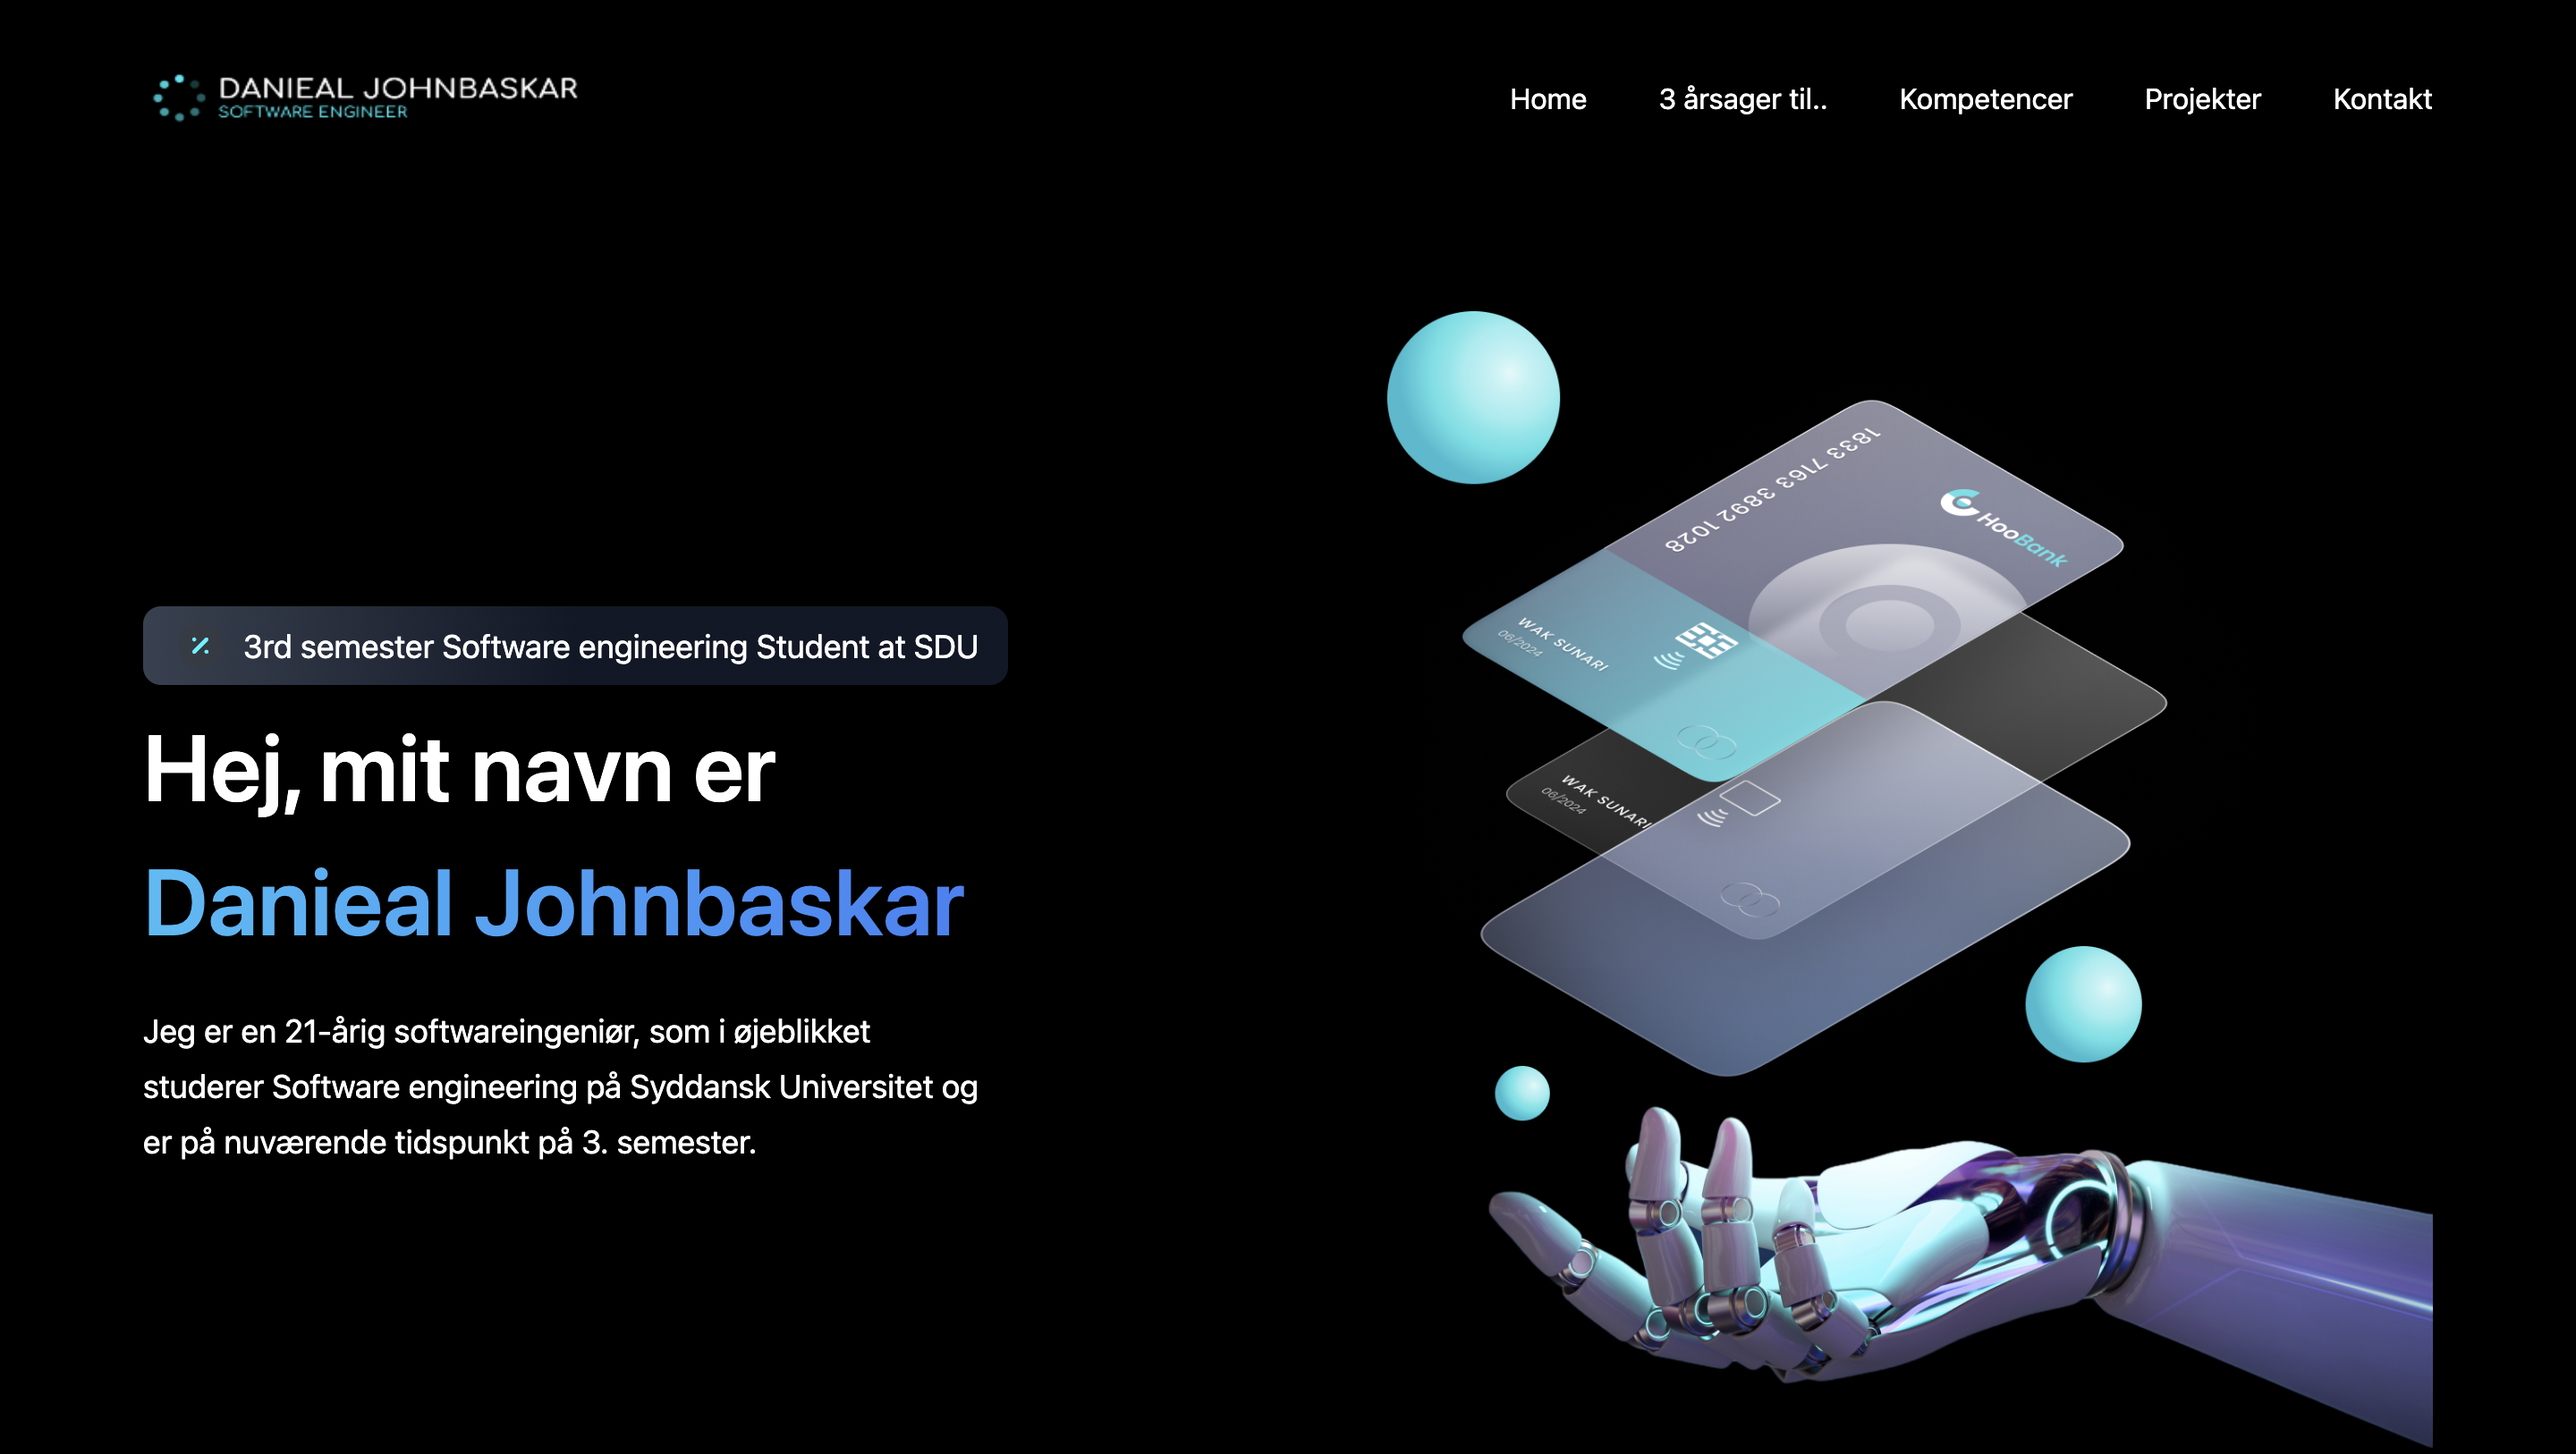
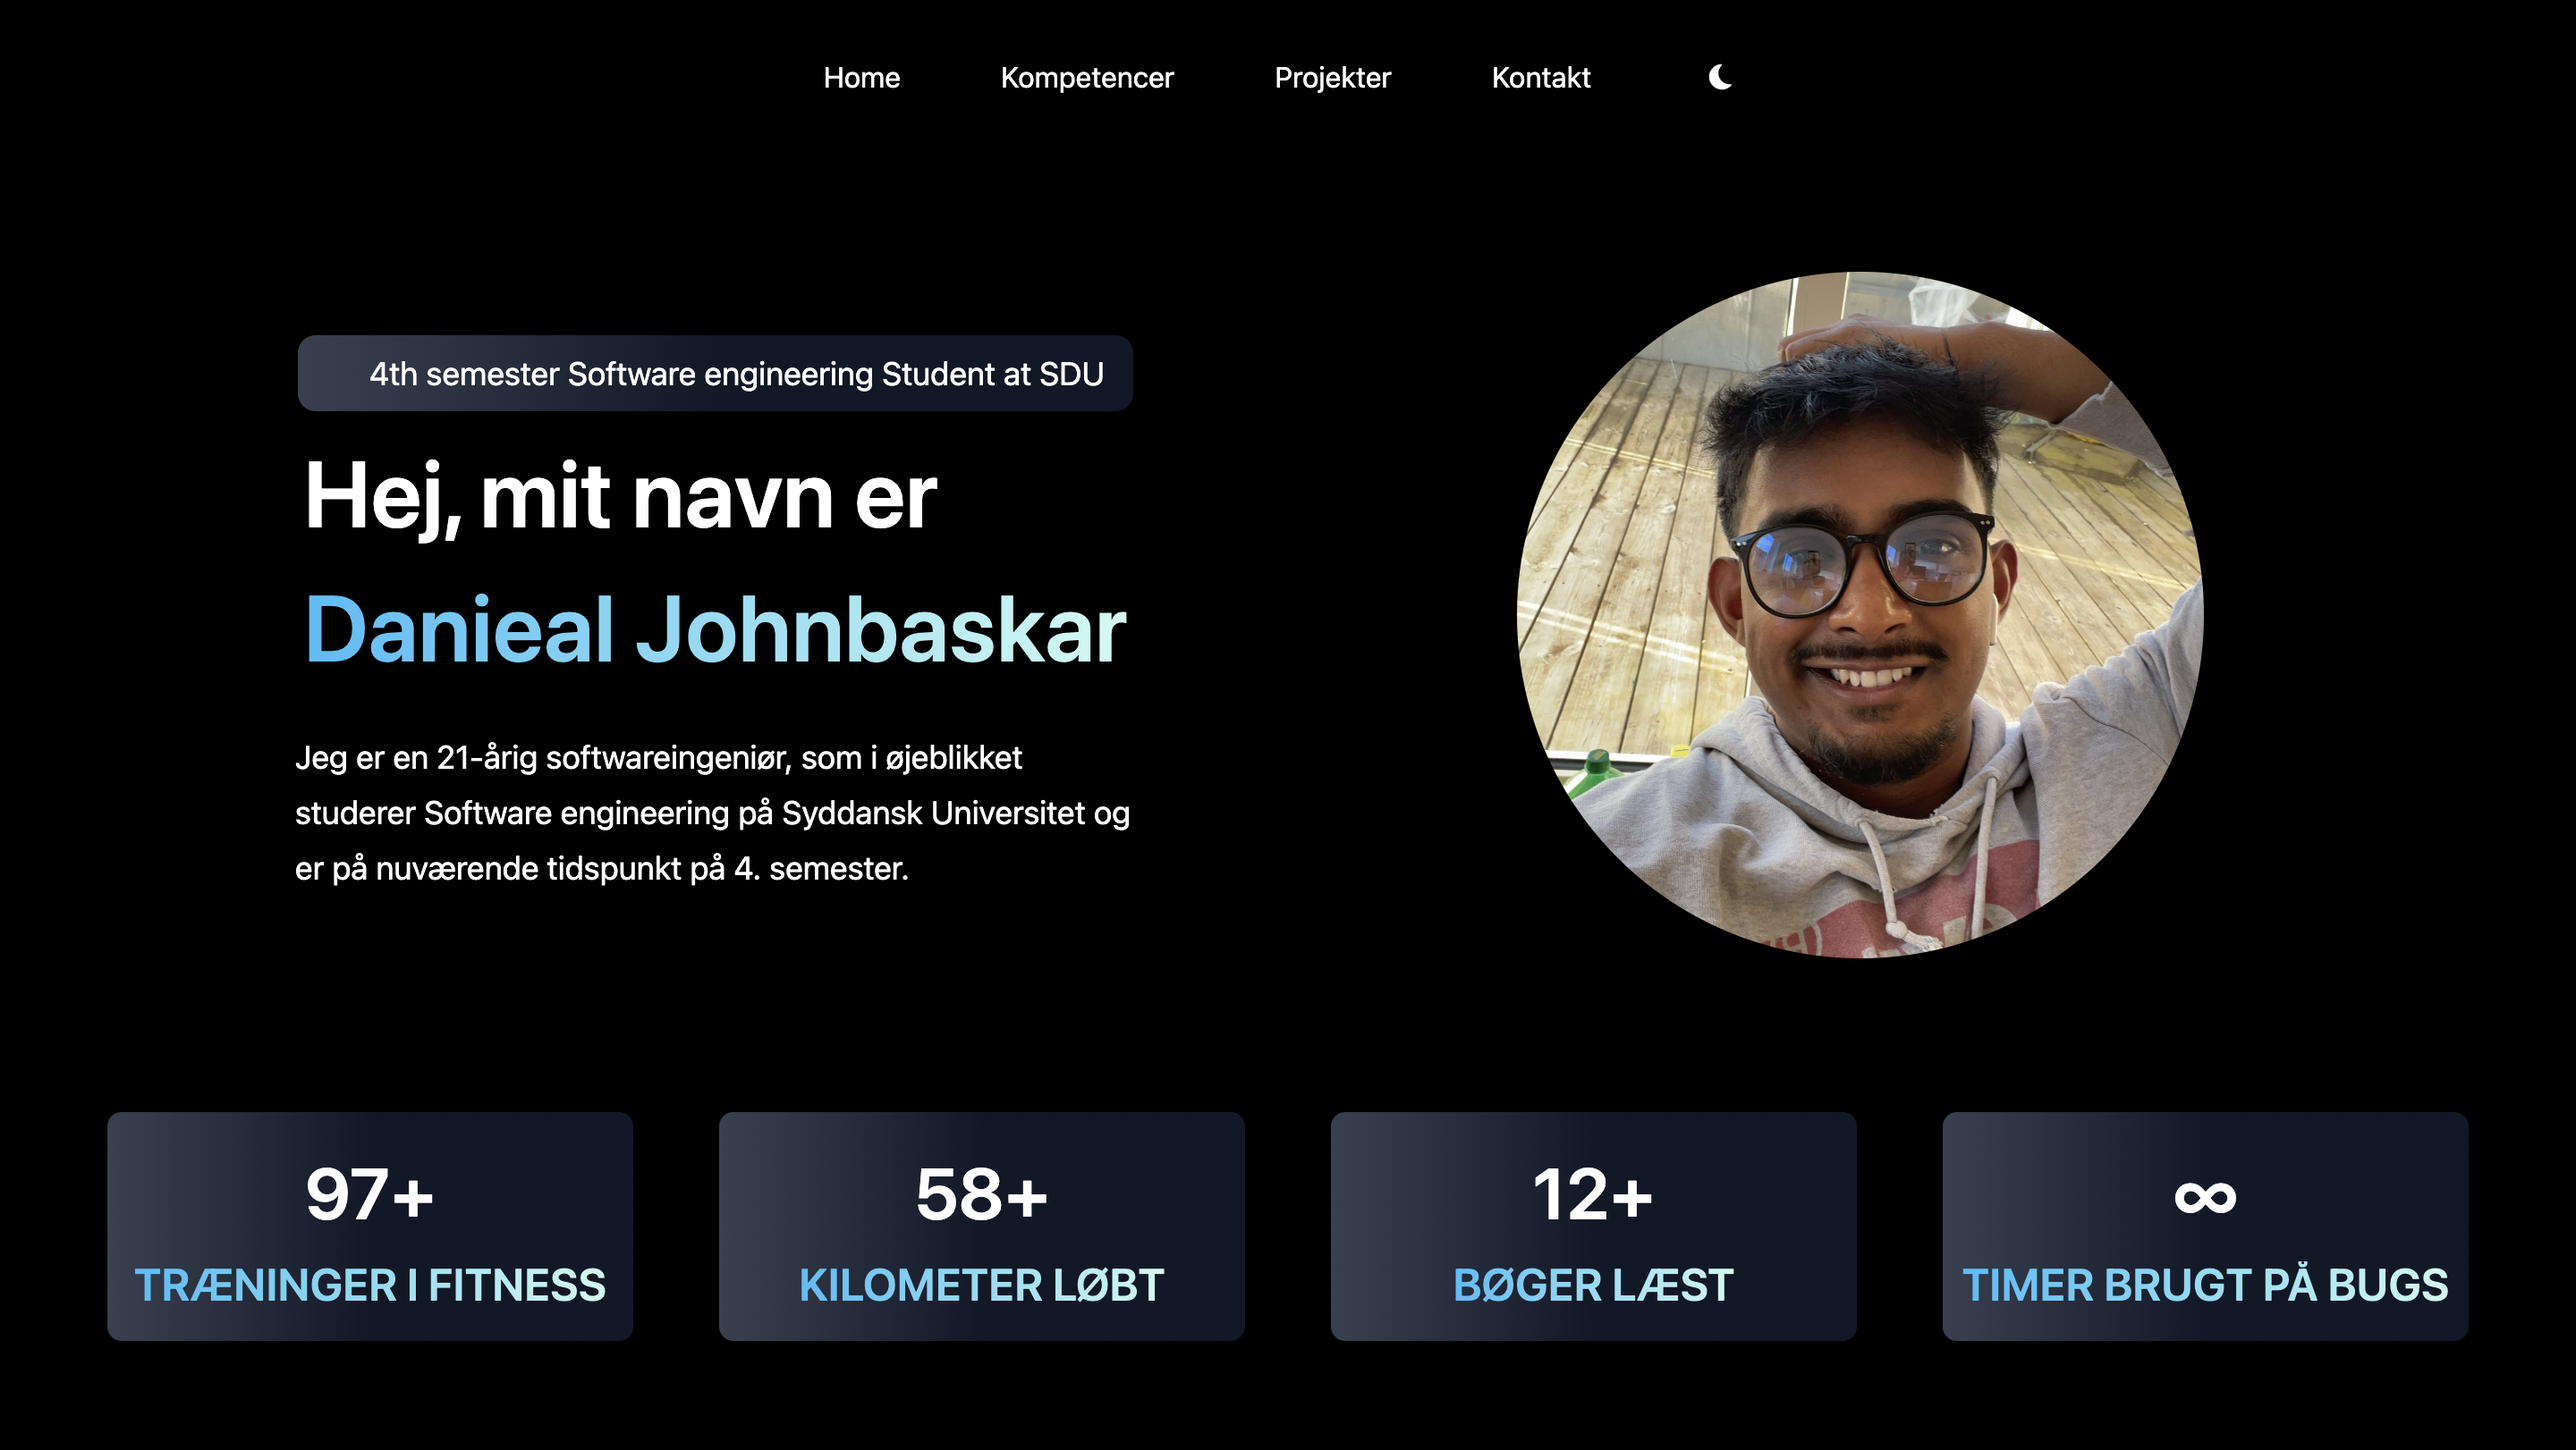
More re-design

diff --git a/src/Components/ProjectsSection/ProjectsCard.tsx b/src/Components/ProjectsSection/ProjectsCard.tsx
@@ -7,8 +7,8 @@ const ProjectsCard = () => {
         <div className="grid grid-cols-1 md:grid-cols-2 lg:grid-cols-4 gap-4">
             {projectData.map((item) => (
                 <div key={item.title} className="col-span-1 md:col-span-1 lg:col-span-1">
-                    <div className={`px-5 py-5 rounded-[20px] w-[270px] h-[470px] grid justify-items-center
-                    ${customColor.gradientGreyNoDarkMode} shadow-lg rounded-lg transition-transform transform hover:scale-105 hover:shadow-2xl`}>
+                    <div className={`px-5 py-5 w-[270px] h-[470px] grid justify-items-center dark:border-none border-[1px] border-gray-800
+                    shadow-lg rounded-lg transition-transform transform hover:scale-105 hover:shadow-2xl`}>
                         <div className="flex items-center justify-between cursor-pointer">
                             <img src={`${item.projectPicture}`} alt={item.title} />
                         </div>

diff --git a/src/Components/HeroSection/HeroPage.tsx b/src/Components/HeroSection/HeroPage.tsx
@@ -11,9 +11,10 @@ const HeroPage = () => {
                 <motion.img src={ProfilePicOne} alt="ProfilePicOne" className="w-[60%] sm:w-[60%] h-auto rounded-full object-cover" />
             </div>
 
+            {/* The banner*/}
             <div className={`flex-1 ${styles.flexStart} flex-col xl:px-0 sm:px-16 px-6 order-2 md:order-1 ${styles.flexCenter} md:${styles.flexStart}`}>
                 <motion.div className={`flex flex-row items-center py-[6px] px-4 ${customColor.gradientGrey} rounded-[10px] mb-2 text-white`} initial={{ opacity: 0 }} animate={{ opacity: 1 }} transition={{ delay: 0.2, duration: 0.5 }}>
-                    <p className={`${styles.paragraph} ml-2 text-center md:text-left`}>
+                    <p className={`${styles.paragraph} ml-6 text-center md:text-left`}>
                         <span className="text-white">4th semester Software engineering Student at SDU</span>
                     </p>
                 </motion.div>

diff --git a/src/Components/ContactSection/ContactFormular.tsx b/src/Components/ContactSection/ContactFormular.tsx
@@ -68,7 +68,7 @@ const ContactFormular = () => {
         <section
             id = "Kontakt"
             className = {`${styles.flexCenter} ${styles.marginY} ${styles.padding}
-             sm:flex-row flex-col ${customColor.gradientGreyNoDarkMode} shadow-lg rounded-lg transition-transform transform hover:scale-105 hover:shadow-2xl`} >
+             sm:flex-row flex-col  shadow-lg rounded-lg transition-transform transform hover:scale-105 hover:shadow-2xl`} >
             <div className = "flex-1 flex flex-col" >
                 <h2 className = {styles.heading2} >Kontakt mig</h2 >
                 <p className = {`${styles.paragraph} max-w-[470px] mt-5`} >

diff --git a/src/assets/index.js b/src/assets/index.js
@@ -1,5 +1,4 @@
 import quotes from "./quotes.svg";
-import robot from "./robot.png";
 import send from "./Send.svg";
 import shield from "./Shield.svg";
 import star from "./Star.svg";
@@ -44,7 +43,6 @@ import ProfilePicOne from "./ProfilePicOne.png"
 
 export {
     quotes,
-    robot,
     send,
     shield,
     star,
